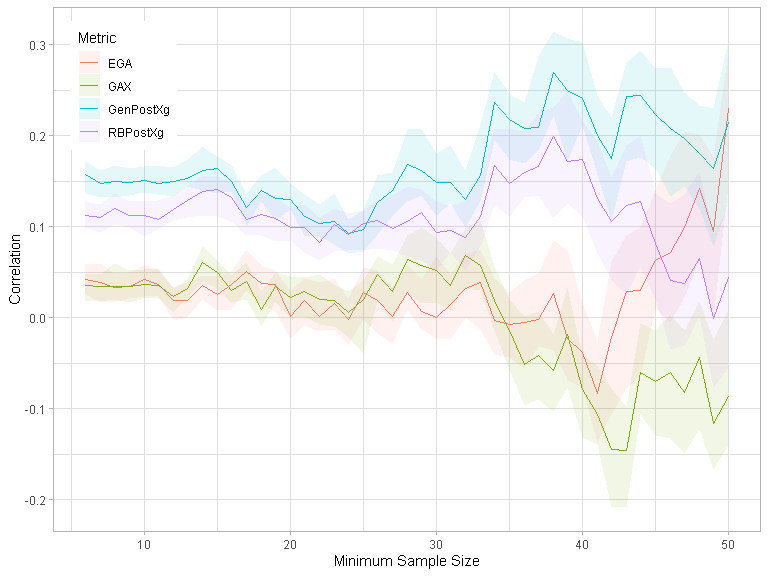
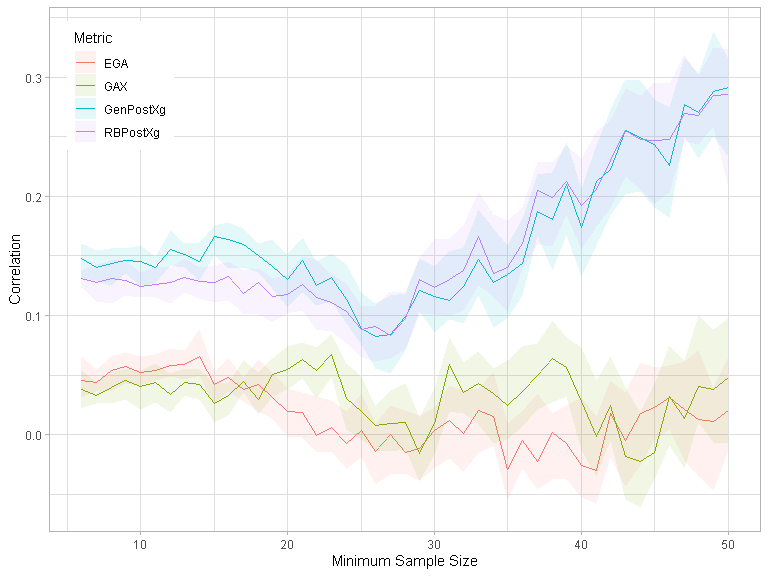
Remove open-play foot filter

diff --git a/reproduction/miss_it_like_messi.md b/reproduction/miss_it_like_messi.md
@@ -17,21 +17,21 @@ statsbomb_shots_processed |>
 
 | League | Season | num_shots |
 |:-------|-------:|----------:|
-| ARG    |   2019 |      3409 |
-| FR2    |   2018 |      4438 |
-| FR2    |   2019 |      3290 |
-| FR2    |   2020 |      4300 |
-| GR2    |   2018 |      4086 |
-| GR2    |   2019 |      4099 |
-| GR2    |   2020 |      3881 |
-| MLS    |   2018 |      5857 |
-| MLS    |   2019 |      6220 |
-| MLS    |   2020 |      4294 |
-| NED    |   2018 |      4571 |
-| NED    |   2019 |      3384 |
-| NED    |   2020 |      4198 |
-| USL    |   2019 |      2677 |
-| USL    |   2020 |      3823 |
+| ARG    |   2019 |      4691 |
+| FR2    |   2018 |      5895 |
+| FR2    |   2019 |      4467 |
+| FR2    |   2020 |      5867 |
+| GR2    |   2018 |      5599 |
+| GR2    |   2019 |      5635 |
+| GR2    |   2020 |      5376 |
+| MLS    |   2018 |      7632 |
+| MLS    |   2019 |      7969 |
+| MLS    |   2020 |      5696 |
+| NED    |   2018 |      6050 |
+| NED    |   2019 |      4391 |
+| NED    |   2020 |      5483 |
+| USL    |   2019 |      3558 |
+| USL    |   2020 |      5022 |
 
 ## Figure 1
 
@@ -435,10 +435,10 @@ stability_data |>
 
 |               |     gax_b |     ega_b | rb_post_xg_b | gen_post_xg_b |
 |:--------------|----------:|----------:|-------------:|--------------:|
-| gax_a         | 0.0353784 | 0.0249364 |    0.0445117 |     0.0516714 |
-| ega_a         | 0.0052795 | 0.0359962 |    0.0254674 |     0.0236991 |
-| rb_post_xg_a  | 0.0394716 | 0.0330059 |    0.1140175 |     0.1161350 |
-| gen_post_xg_a | 0.0278304 | 0.0364614 |    0.1229986 |     0.1499299 |
+| gax_a         | 0.0423154 | 0.0455994 |    0.0226537 |     0.0523747 |
+| ega_a         | 0.0145527 | 0.0539083 |    0.0270194 |     0.0325270 |
+| rb_post_xg_a  | 0.0232728 | 0.0397225 |    0.1262583 |     0.1225618 |
+| gen_post_xg_a | 0.0387140 | 0.0480705 |    0.1209638 |     0.1435869 |
 
 ## Table 4
 
@@ -463,12 +463,12 @@ stability_data |>
   knitr::kable()
 ```
 
-|               |     gax_b |     ega_b | rb_post_xg_b | gen_post_xg_b |
-|:--------------|----------:|----------:|-------------:|--------------:|
-| gax_a         | 0.0514288 | 0.0195463 |   -0.0114733 |    -0.0247884 |
-| ega_a         | 0.0365588 | 0.0183749 |   -0.0494727 |    -0.0993044 |
-| rb_post_xg_a  | 0.1194221 | 0.0865154 |    0.0925798 |     0.1199009 |
-| gen_post_xg_a | 0.1256566 | 0.1130035 |    0.1105484 |     0.1471964 |
+|               |      gax_b |      ega_b | rb_post_xg_b | gen_post_xg_b |
+|:--------------|-----------:|-----------:|-------------:|--------------:|
+| gax_a         |  0.0111359 |  0.0280317 |   -0.0046523 |    -0.0111297 |
+| ega_a         | -0.0188603 | -0.0076556 |   -0.0031470 |    -0.0200317 |
+| rb_post_xg_a  |  0.0472079 |  0.0216665 |    0.1257029 |     0.1031701 |
+| gen_post_xg_a |  0.0694228 |  0.0256269 |    0.1140609 |     0.1065604 |
 
 ## Figure 6
 
